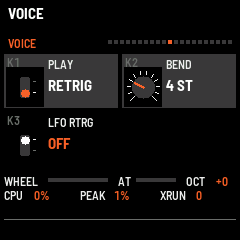
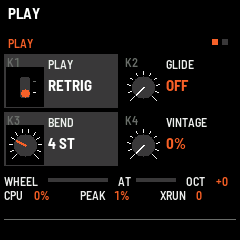
MB-1 0.13.0: the pages follow the patch sheet
Each page button a section of the editor's sheet, each page one of its columns: SEL a page a waveform
(SAW with ULTRASAW and US RATE, SQUARE with PW and PW ENV, TRI with METAL and MTL ENV, SUB with its
wave, octave and NOISE); HOME the big knobs (CUTOFF, RESO, BRUTE, LEVEL); ENV the envelopes and the
velocity amounts; LFO, LFO AMT, VIBRATO; EDIT's PLAY and CONTROLS (the wheel and aftertouch); GLO only
the instrument's settings; FX in signal order (DIST, CHORUS, DELAY, DELAY 2, REVERB, REVERB 2, COMP).
A page button held half a second goes back to its first page; the dots show the button's pages.
Patches, CCs and the editor are unchanged. The manual's pages and CC tables and pictures follow.

Claude-Session: https://claude.ai/code/session_015VhpbL4VK8RUpw8F1mPpMk

Changed region(s): [[0.0, 0.1458, 0.9917, 0.7], [0.0292, 0.0292, 0.175, 0.0875], [0.0292, 0.1458, 0.1458, 0.2042]]

diff --git a/app/app.c b/app/app.c
@@ -2,10 +2,11 @@
  * MB-1 for the M-VAVE FM-1 (an fm1-base app; started from fm1-base's template, MPL-2.0, and laid out after
  * sq80-fm1's app): one monophonic Minibrute-style voice (mbvoice/, measured against the MiniBrute V plugin).
  *
- * The panel: K1..K4 turn the four parameters of the page on screen. The page buttons pick a page, a second press
- * its second page: HOME the filter (FILTER, FILTER 2), SEL the oscillators (OSC, OSC 2), ENV the envelopes
- * (FILT ENV, AMP ENV), LFO the LFO and vibrato, EDIT the performance controls (glide, vintage, the wheel), GLO the
- * rest (MORE: sub octave and shape, Ultrasaw rate, level; VOICE: legato or retrig, bend range, LFO retrigger), FX the touch (aftertouch, PW and Metalizer envelope). SELECT
+ * The panel: K1..K4 turn the four parameters of the page on screen. Each page button is a section of the patch
+ * editor's sheet, its pages that section's columns (PAGE[] below): HOME the filter, SEL the oscillators (a page a
+ * waveform), ENV the envelopes and velocity, LFO the LFO and vibrato, EDIT playing (legato, glide, bend, vintage; the
+ * wheel and aftertouch), GLO the instrument's own settings, FX the effects in their order. A press: its first page, then
+ * the next; held half a second, back to its first. SELECT
  * steps through every page. ALGO is the mod wheel (MIDI CC 1 too); the keys' pressure is aftertouch. PRESET picks
  * one of 128 patch slots, four banks of 32, A01 .. D32 (the first 8 hold factory sounds until saved over), SAVE stores the patch in the slot,
  * OCT- / OCT+ the octave. Every parameter has a MIDI CC (PARAM[].cc), so a controller or a DAW can play them.
@@ -27,19 +28,23 @@ typedef struct {
     const char *title;
     uint8_t btn, p[4];
 } page_t;
+/* each button a section of the patch sheet (app/editor), each page one of its columns or groups; GLO the
+ * instrument's own settings (not the patch's) */
 static const page_t PAGE[] = {
-    {"FILTER", B_HOME, {P_CUT, P_RES, P_BRUTE, P_FENV}},     {"FILTER 2", B_HOME, {P_MODE, P_KBD, P_FVEL, P_AVEL}},
-    {"OSC", B_SEL, {P_SAW, P_SQR, P_TRI, P_SUB}},            {"OSC 2", B_SEL, {P_NOISE, P_ULTRA, P_PW, P_METAL}},
-    {"FILT ENV", B_ENV, {P_FA, P_FD, P_FS, P_FR}},           {"AMP ENV", B_ENV, {P_AA, P_AD, P_AS, P_AR}},
-    {"LFO", B_LFO, {P_LRATE, P_LWAVE, P_LPITCH, P_LFILT}},   {"LFO 2", B_LFO, {P_LPWM, P_LAMP, P_VRATE, P_VTYPE}},
-    {"PERFORM", B_EDIT, {P_GLIDE, P_VINT, P_WDEST, P_WAMT}}, {"MORE", B_GLO, {P_SUBOCT, P_SUBSHP, P_USRATE, P_LEVEL}},
-    {"VOICE", B_GLO, {P_PLAY, P_BEND, P_LRTRG, P_NONE}},
-    {"TOUCH", B_FX, {P_ATVIB, P_ATCUT, P_PWENV, P_MTENV}},
-    {"DELAY", B_FX, {P_DTIME, P_DFB, P_DTONE, P_DMIX}},      {"REVERB", B_FX, {P_RDECAY, P_RSIZE, P_RDAMP, P_RMIX}},
-    {"FX 2", B_FX, {P_DSYNC, P_DMODE, P_RPRE, P_FXORD}},
+    {"FILTER", B_HOME, {P_CUT, P_RES, P_BRUTE, P_LEVEL}},     {"FILTER 2", B_HOME, {P_MODE, P_FENV, P_KBD, P_NONE}},
+    {"SAW", B_SEL, {P_SAW, P_ULTRA, P_USRATE, P_NONE}},       {"SQUARE", B_SEL, {P_SQR, P_PW, P_PWENV, P_NONE}},
+    {"TRI", B_SEL, {P_TRI, P_METAL, P_MTENV, P_NONE}},        {"SUB", B_SEL, {P_SUB, P_SUBSHP, P_SUBOCT, P_NOISE}},
+    {"FILT ENV", B_ENV, {P_FA, P_FD, P_FS, P_FR}},            {"AMP ENV", B_ENV, {P_AA, P_AD, P_AS, P_AR}},
+    {"VELOCITY", B_ENV, {P_FVEL, P_AVEL, P_NONE, P_NONE}},
+    {"LFO", B_LFO, {P_LRATE, P_LWAVE, P_LRTRG, P_NONE}},      {"LFO AMT", B_LFO, {P_LPITCH, P_LFILT, P_LPWM, P_LAMP}},
+    {"VIBRATO", B_LFO, {P_VRATE, P_VTYPE, P_NONE, P_NONE}},
+    {"PLAY", B_EDIT, {P_PLAY, P_GLIDE, P_BEND, P_VINT}},      {"CONTROLS", B_EDIT, {P_WDEST, P_WAMT, P_ATVIB, P_ATCUT}},
+    {"GLOBAL", B_GLO, {G_TEMPO, G_HORD, G_LSYNC, P_NONE}},
     {"DIST", B_FX, {P_XTYPE, P_XDRV, P_XTONE, P_XMIX}},       {"CHORUS", B_FX, {P_CRATE, P_CDEPTH, P_CPHASE, P_CMIX}},
+    {"DELAY", B_FX, {P_DTIME, P_DFB, P_DTONE, P_DMIX}},       {"DELAY 2", B_FX, {P_DSYNC, P_DMODE, P_NONE, P_NONE}},
+    {"REVERB", B_FX, {P_RDECAY, P_RSIZE, P_RDAMP, P_RMIX}},   {"REVERB 2", B_FX, {P_RPRE, P_FXORD, P_NONE, P_NONE}},
     {"COMP", B_FX, {P_KTHR, P_KRAT, P_KATT, P_KREL}},
-    {"ARP", B_ARP, {P_AMODE, P_AOCT, P_ASTEP, P_ASWING}},   {"ARP 2", B_ARP, {G_TEMPO, P_ARP, G_HORD, G_LSYNC}},
+    {"ARP", B_ARP, {P_AMODE, P_AOCT, P_ASTEP, P_ASWING}},    {"ARP 2", B_ARP, {P_ARP, G_TEMPO, G_HORD, P_NONE}},
     {"SEQ", B_SEQ, {G_SPAT, G_SLEN, G_SSTEP, G_SSWING}},
 };
 #define NPAGE (sizeof PAGE / sizeof PAGE[0])
@@ -1077,6 +1082,7 @@ static void tap_tempo(void)                 /* SEQ held, PLAY tapped: the tempo 
 
 static uint32_t arp_down_ms;
 static uint8_t arp_long;
+static uint32_t pg_btn = 0xFFu, pg_down_ms;   /* a page button held: back to its first page after 500 ms */
 
 /* the sequencer from the panel: PLAY starts and stops it, REC arms recording (stopped: step entry, a key a step,
  * FX a rest, FX with a key held a tie; playing: in time). A pattern recorded step by step is as long as its steps. */
@@ -1202,8 +1208,20 @@ static void input(void)
         else if (k == B_FX && seq_rec && !seq_running)   /* step entry: a rest, or with a key held a tie */
             seq_step_write(keys && seq_key_note >= 0 ? (uint32_t)seq_key_note : 60u, 0,
                            keys && seq_key_note >= 0 ? SF_TIE : 0u);
-        else
+        else {
             page_button(k);
+            pg_btn = k;
+            pg_down_ms = plat_ms();
+        }
+    }
+    if (pg_btn < NB && (btn & 1u << pg_btn) && plat_ms() - pg_down_ms >= 500u) {   /* held: its first page */
+        for (k = 0; k < NPAGE && PAGE[k].btn != pg_btn; k++)
+            ;
+        if (k < NPAGE && k != set.page)
+            page_show(k);
+        pg_btn = 0xFFu;
+    } else if (pg_btn < NB && !(btn & 1u << pg_btn)) {
+        pg_btn = 0xFFu;
     }
     if (seq_wrote) {                         /* recorded in time (the audio side) */
         seq_wrote = 0;
@@ -1426,8 +1444,17 @@ static void draw(void)
     /* the page: its title, and its four parameters (K1..K4), lit a moment after a turn */
     cv_begin(240, 136, C_BLACK);
     cv_text(8, 0, &FONT_XS, pg->title, C_ACCENT);
-    for (i = 0; i < NPAGE; i++)              /* where the page is among them */
-        cv_rect(108 + (int32_t)i * 6, 4, 4, 4, i == set.page ? C_ACCENT : C_LINE);
+    {   /* where the page is among its button's: a dot each, right-aligned */
+        uint32_t n = 0, at = 0;
+        for (i = 0; i < NPAGE; i++)
+            if (PAGE[i].btn == pg->btn) {
+                if (i == set.page)
+                    at = n;
+                n++;
+            }
+        for (i = 0; i < n; i++)
+            cv_rect(232 - (int32_t)(n - i) * 10, 3, 6, 6, i == at ? C_ACCENT : C_LINE);
+    }
     if (seq_running || seq_rec) {            /* the sequencer: the step playing (or the next to enter) */
         const seqpat_t *pt = seq_pat();
         char o[8];

diff --git a/app/docs/MANUAL.md b/app/docs/MANUAL.md
@@ -22,9 +22,9 @@ wheel, the keys' pressure (aftertouch), the octave, the audio load (CPU: now, PE
 | Control | What it does |
 | --- | --- |
 | K1..K4 | The four parameters on screen. A fast turn moves in bigger steps. |
-| HOME, SEL, ENV, LFO, EDIT, GLO, FX | A page; pressed again, its next page (FX: TOUCH, DELAY, REVERB, FX 2, DIST, CHORUS, COMP; the button of the page on screen is lit) |
+| HOME, SEL, ENV, LFO, EDIT, GLO, FX | A section of the patch sheet: its first page; pressed again, its next page. Held half a second: back to its first page. The dots at the top right: the button's pages, the one on screen lit. GLO holds the instrument's own settings (not the patch's) |
 | SELECT | Steps through every page |
-| ALGO | The mod wheel (sent as MIDI CC 1 too). Where it goes: PERFORM, WHEEL TO |
+| ALGO | The mod wheel (sent as MIDI CC 1 too). Where it goes: CONTROLS (EDIT), WHEEL TO |
 | PRESET | The patch slot, A01..D32: 128 slots in four banks of 32. Turning it loads the slot (unsaved changes are dropped) |
 | SAVE | Stores the patch in its slot, and the settings (lit when there is something to save) |
 | OCT- / OCT+ | The keyboard's octave, -2..+2 |
@@ -38,41 +38,49 @@ wheel, the keys' pressure (aftertouch), the octave, the audio load (CPU: now, PE
 
 | Page | Button | K1 | K2 | K3 | K4 |
 | --- | --- | --- | --- | --- | --- |
-| FILTER | HOME | CUTOFF | RESO | BRUTE | ENV AMT |
-| FILTER 2 | HOME | MODE | KBD TRK | ENV VEL | AMP VEL |
-| OSC | SEL | SAW | SQUARE | TRI | SUB |
-| OSC 2 | SEL | NOISE | ULTRASAW | PW | METAL |
+| FILTER | HOME | CUTOFF | RESO | BRUTE | LEVEL |
+| FILTER 2 | HOME | MODE | ENV AMT | KBD TRK |  |
+| SAW | SEL | SAW | ULTRASAW | US RATE |  |
+| SQUARE | SEL | SQUARE | PW | PW ENV |  |
+| TRI | SEL | TRI | METAL | MTL ENV |  |
+| SUB | SEL | SUB | SUB WAVE | SUB OCT | NOISE |
 | FILT ENV | ENV | ATTACK | DECAY | SUSTAIN | RELEASE |
 | AMP ENV | ENV | ATTACK | DECAY | SUSTAIN | RELEASE |
-| LFO | LFO | RATE | WAVE | PITCH | FILTER |
-| LFO 2 | LFO | PWM/MTL | AMP | VIB RATE | VIB TYPE |
-| PERFORM | EDIT | GLIDE | VINTAGE | WHEEL TO | WHL AMT |
-| MORE | GLO | SUB OCT | SUB WAVE | US RATE | LEVEL |
-| VOICE | GLO | PLAY | BEND | LFO RTRG |  |
-| TOUCH | FX | AT VIB | AT CUT | PW ENV | MTL ENV |
-| DELAY | FX | TIME | FEEDBACK | TONE | MIX |
-| REVERB | FX | DECAY | SIZE | DAMP | MIX |
-| FX 2 | FX | DLY SYNC | DLY MODE | PRE-DLY | FX ORDER |
+| VELOCITY | ENV | ENV VEL | AMP VEL |  |  |
+| LFO | LFO | RATE | WAVE | LFO RTRG |  |
+| LFO AMT | LFO | PITCH | FILTER | PWM/MTL | AMP |
+| VIBRATO | LFO | VIB RATE | VIB TYPE |  |  |
+| PLAY | EDIT | PLAY | GLIDE | BEND | VINTAGE |
+| CONTROLS | EDIT | WHEEL TO | WHL AMT | AT VIB | AT CUT |
+| GLOBAL | GLO | TEMPO | HOLD ORD | LFO CLK |  |
 | DIST | FX | TYPE | DRIVE | TONE | MIX |
 | CHORUS | FX | RATE | DEPTH | STEREO | MIX |
+| DELAY | FX | TIME | FEEDBACK | TONE | MIX |
+| DELAY 2 | FX | DLY SYNC | DLY MODE |  |  |
+| REVERB | FX | DECAY | SIZE | DAMP | MIX |
+| REVERB 2 | FX | PRE-DLY | FX ORDER |  |  |
 | COMP | FX | THRESH | RATIO | ATTACK | RELEASE |
 | ARP | ARP | MODE | OCTAVE | STEP | SWING |
-| ARP 2 | ARP (held) | TEMPO | ARP | HOLD ORD | LFO CLK |
+| ARP 2 | ARP (held) | ARP | TEMPO | HOLD ORD |  |
 | SEQ | SEQ | PATTERN | LENGTH | STEP | SWING |
+
+Each button is a section of the patch editor's sheet, and each page one of its columns or groups: SEL has a page
+for each waveform (its level, its shaper and the shaper's envelope amount), the SUB page the sub oscillator and noise.
+TEMPO and HOLD ORD are on ARP 2 as well as GLOBAL.
 
 Notes on a few of them:
 
-- **ULTRASAW** (OSC 2) adds two shifting copies of the sawtooth, as the hardware does: one moved by a slow LFO of its
-  own, one by **US RATE** (MORE).
-- **METAL** (OSC 2) folds the triangle through four folding stages (low settings fold only its top); **MTL ENV** and
+- **ULTRASAW** (SAW) adds two shifting copies of the sawtooth, as the hardware does: one moved by a slow LFO of its
+  own, one by **US RATE** (beside it).
+- **METAL** (TRI) folds the triangle through four folding stages (low settings fold only its top); **MTL ENV** and
   **PWM/MTL** move it with the filter envelope and the LFO.
 - **BRUTE** (FILTER) feeds the sound after the VCA back into the oscillator mixer, as the hardware does: growl, then,
   near full, chaos (a low growl a third of the note's pitch). It follows the amp envelope.
 - **MODE** (FILTER 2): LP, BP, HP and NOTCH as the Minibrute's Steiner-Parker filter makes them: HP keeps some low
   end, the notch is shallow.
-- **WHEEL TO** (PERFORM) is the Minibrute's mod wheel destination: LFO AMT, VIBRATO or CUTOFF; **WHL AMT** how far.
-- **VINTAGE** (PERFORM) detunes each note a little, the way an old oscillator drifts.
-- **PLAY** (VOICE): LEGATO, a note played while another is held keeps the envelopes going (and glides); RETRIG, every
+- **WHEEL TO** (CONTROLS) is the Minibrute's mod wheel destination: LFO AMT, VIBRATO or CUTOFF; **WHL AMT** how far.
+- **VINTAGE** (PLAY) detunes each note a little, the way an old oscillator drifts.
+- **PLAY** (PLAY): LEGATO, a note played while another is held keeps the envelopes going (and glides); RETRIG, every
   note restarts them. **BEND** is the pitch bend's range, 1..12 semitones. **LFO RTRG** restarts the LFO with each
   note that starts the envelopes.
 
@@ -82,16 +90,16 @@ After the Minibrute's. ARP steps through OFF, ON and HOLD:
 
 - **ON** plays the keys while you hold them.
 - **HOLD** keeps playing the last chord when you let go; a key pressed with none held starts a new one. With
-  **HOLD ORD** PLAYED (ARP 2), the notes play in the order you pressed them, up to 16, a note as often as you
+  **HOLD ORD** PLAYED (ARP 2, GLOBAL), the notes play in the order you pressed them, up to 16, a note as often as you
   play it: hold the first key down and tap the others (C held, then E, D, E: C E D E); with PITCH, a chord, low to
   high.
 - **MODE**: UP, DOWN, UP/DOWN (the top and bottom notes play twice, as on the Minibrute) or RANDOM.
 - **OCTAVE**: over 1 to 4 octaves.
 - **STEP**: 1/4, 1/8, 1/16, or their triplets 1/4T, 1/8T, 1/16T.
 - **SWING**: 50 % (straight) to 75 % in six steps: every second note comes later.
-- **TEMPO** (ARP 2): 30 to 260 BPM; or hold SEQ and tap PLAY on the beat. When MIDI clock comes in (USB, Bluetooth or TRS),
+- **TEMPO** (ARP 2, GLOBAL): 30 to 260 BPM; or hold SEQ and tap PLAY on the beat. When MIDI clock comes in (USB, Bluetooth or TRS),
   the arpeggiator follows it, and TEMPO at its lowest halves it, at its highest doubles it.
-- **LFO CLK** (ARP 2): ARP puts the LFO on the arpeggiator's tempo; LFO RATE then picks a note value (8 bars
+- **LFO CLK** (GLOBAL): ARP puts the LFO on the arpeggiator's tempo; LFO RATE then picks a note value (8 bars
   dotted .. a 64th triplet), as the plugin's synced LFO.
 
 Each note sounds for half its step. As in the plugin, the arpeggiator is the patch's: ARP (OFF, ON or HOLD), MODE,
@@ -103,18 +111,18 @@ LFO CLK belong to the instrument (one tempo for every patch).
 Five effects, after the plugin's and measured against them, saved with each patch: distortion, chorus, delay, reverb
 and a compressor, in that order (FX ORDER can put the reverb before the delay).
 
-**Delay and reverb.** **FX ORDER** (FX 2): DLY>REV (the repeats into the
+**Delay and reverb.** **FX ORDER** (REVERB 2): DLY>REV (the repeats into the
 reverb, the usual) or REV>DLY (the reverb's tail repeated), as each of the plugin's presets has them. They are stereo: the
 voice in the middle, the repeats and the reverb around it. With MIX at 0 an effect is off; half way, dry and wet are
 both at -3 dB (an equal-power crossfade, as the plugin's). Matched to the plugin's delay and reverb by measurement.
 
-- **DELAY**: **TIME** 2 ms to 1.5 s (0.74 s in PING-PONG), on the plugin's scale; with **DLY SYNC** CLOCK (FX 2) it
+- **DELAY**: **TIME** 2 ms to 1.5 s (0.74 s in PING-PONG), on the plugin's scale; with **DLY SYNC** CLOCK (DELAY 2) it
   picks a note value instead (1/32 .. 1/1, triplets and dotted too) on the arpeggiator's and sequencer's tempo.
-  **FEEDBACK** the repeats; **TONE** a low-pass on them (12 dB an octave; each repeat darker); **MIX** dry to wet. **DLY MODE** (FX 2):
+  **FEEDBACK** the repeats; **TONE** a low-pass on them (12 dB an octave; each repeat darker); **MIX** dry to wet. **DLY MODE** (DELAY 2):
   STEREO (the repeats in the middle) or PING-PONG (left, right, left...). Turning TIME glides, as tape does.
 - **REVERB**: a plate. **DECAY** how long it rings (about 0.7 to 9 s at SIZE half way, as the plugin's), **SIZE** the
   room (it scales the decay too), **DAMP** how quickly it dies away, darker as it goes; **MIX** dry to wet; **PRE-DLY**
-  (FX 2) a gap before it, 0 to 200 ms.
+  (REVERB 2) a gap before it, 0 to 200 ms.
 
 They run on the FM-1's second core while the first plays the voice (the screen's foot shows **2C**). On a unit whose
 second core is unreliable (some are), MB-1 notices, gives it up until power-off, and runs them on the first (**1C**):
@@ -186,7 +194,7 @@ answered.
 
 ## MIDI
 
-MB-1 plays from USB, Bluetooth and TRS MIDI on any channel: notes, pitch bend (VOICE: BEND, 1..12 semitones), the mod wheel (CC 1),
+MB-1 plays from USB, Bluetooth and TRS MIDI on any channel: notes, pitch bend (PLAY: BEND, 1..12 semitones), the mod wheel (CC 1),
 aftertouch (channel or poly), all notes off (CC 120, 123), and every parameter by its CC. The keys and the knobs are
 sent out over USB and Bluetooth.
 
@@ -195,19 +203,19 @@ sent out over USB and Bluetooth.
 | 74 | CUTOFF | FILTER |
 | 71 | RESO | FILTER |
 | 20 | BRUTE | FILTER |
-| 21 | ENV AMT | FILTER |
+| 21 | ENV AMT | FILTER 2 |
 | 22 | MODE | FILTER 2 |
 | 23 | KBD TRK | FILTER 2 |
-| 24 | ENV VEL | FILTER 2 |
-| 25 | AMP VEL | FILTER 2 |
-| 26 | SAW | OSC |
-| 27 | SQUARE | OSC |
-| 28 | TRI | OSC |
-| 29 | SUB | OSC |
-| 30 | NOISE | OSC 2 |
-| 31 | ULTRASAW | OSC 2 |
-| 75 | PW | OSC 2 |
-| 76 | METAL | OSC 2 |
+| 24 | ENV VEL | VELOCITY |
+| 25 | AMP VEL | VELOCITY |
+| 26 | SAW | SAW |
+| 27 | SQUARE | SQUARE |
+| 28 | TRI | TRI |
+| 29 | SUB | SUB |
+| 30 | NOISE | SUB |
+| 31 | ULTRASAW | SAW |
+| 75 | PW | SQUARE |
+| 76 | METAL | TRI |
 | 77 | ATTACK | FILT ENV |
 | 78 | DECAY | FILT ENV |
 | 79 | SUSTAIN | FILT ENV |
@@ -218,23 +226,23 @@ sent out over USB and Bluetooth.
 | 72 | RELEASE | AMP ENV |
 | 83 | RATE | LFO |
 | 84 | WAVE | LFO |
-| 85 | PITCH | LFO |
-| 86 | FILTER | LFO |
-| 87 | PWM/MTL | LFO 2 |
-| 88 | AMP | LFO 2 |
-| 89 | VIB RATE | LFO 2 |
-| 90 | VIB TYPE | LFO 2 |
-| 5 | GLIDE | PERFORM |
-| 91 | VINTAGE | PERFORM |
-| 92 | WHEEL TO | PERFORM |
-| 93 | WHL AMT | PERFORM |
-| 94 | SUB OCT | MORE |
-| 95 | SUB WAVE | MORE |
-| 96 | US RATE | MORE |
-| 7 | LEVEL | MORE |
-| 102 | PLAY | VOICE |
-| 103 | BEND | VOICE |
-| 104 | LFO RTRG | VOICE |
+| 85 | PITCH | LFO AMT |
+| 86 | FILTER | LFO AMT |
+| 87 | PWM/MTL | LFO AMT |
+| 88 | AMP | LFO AMT |
+| 89 | VIB RATE | VIBRATO |
+| 90 | VIB TYPE | VIBRATO |
+| 5 | GLIDE | PLAY |
+| 91 | VINTAGE | PLAY |
+| 92 | WHEEL TO | CONTROLS |
+| 93 | WHL AMT | CONTROLS |
+| 94 | SUB OCT | SUB |
+| 95 | SUB WAVE | SUB |
+| 96 | US RATE | SAW |
+| 7 | LEVEL | FILTER |
+| 102 | PLAY | PLAY |
+| 103 | BEND | PLAY |
+| 104 | LFO RTRG | LFO |
 | 105 | ARP (off, on, hold) | ARP 2 |
 | 106 | MODE | ARP |
 | 107 | OCTAVE | ARP |
@@ -244,14 +252,14 @@ sent out over USB and Bluetooth.
 | 111 | FEEDBACK | DELAY |
 | 112 | TONE | DELAY |
 | 113 | MIX | DELAY |
-| 114 | DLY SYNC | FX 2 |
-| 115 | DLY MODE | FX 2 |
+| 114 | DLY SYNC | DELAY 2 |
+| 115 | DLY MODE | DELAY 2 |
 | 116 | DECAY | REVERB |
 | 117 | SIZE | REVERB |
 | 118 | DAMP | REVERB |
 | 119 | MIX | REVERB |
-| 14 | PRE-DLY | FX 2 |
-| 15 | FX ORDER | FX 2 |
+| 14 | PRE-DLY | REVERB 2 |
+| 15 | FX ORDER | REVERB 2 |
 | 16 | TYPE | DIST |
 | 17 | DRIVE | DIST |
 | 18 | TONE | DIST |
@@ -264,9 +272,9 @@ sent out over USB and Bluetooth.
 | 57 | RATIO | COMP |
 | 58 | ATTACK | COMP |
 | 59 | RELEASE | COMP |
-| 97 | AT VIB | TOUCH |
-| 98 | AT CUT | TOUCH |
-| 99 | PW ENV | TOUCH |
-| 100 | MTL ENV | TOUCH |
+| 97 | AT VIB | CONTROLS |
+| 98 | AT CUT | CONTROLS |
+| 99 | PW ENV | SQUARE |
+| 100 | MTL ENV | TRI |
 
 Choices (MODE, WAVE, ...) take the CC range in equal parts.
